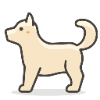
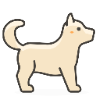
dog change
a

diff --git a/mastermainwindow.cpp b/mastermainwindow.cpp
@@ -17,7 +17,7 @@ MasterMainWindow::MasterMainWindow(QWidget *parent)
     animation();
     flipTimer = new QTimer(this);
     connect(flipTimer, &QTimer::timeout, this, &MasterMainWindow::flipDog);
-    flipTimer->start(3500);  // 设置为50毫秒触发一次
+    flipTimer->start(2500);
 }
 
 MasterMainWindow::~MasterMainWindow()
@@ -135,7 +135,9 @@ void MasterMainWindow::animation(){
     world.createWall("left",b2Vec2(-8.0f, 1.0f),b2Vec2(0.5f, 8.0),0.0f,0.0f);
     world.createWall("bot",b2Vec2(8.0f, 1.0f),b2Vec2(0.5f, 8.0),0.0f,0.0f);
     world.createWall("right",b2Vec2(0.0f, 1.0f),b2Vec2(8.0f, 0.5f),0.0f,0.0f);
-    world.createBody("dog1",b2Vec2(-7.5f,2.0f),b2Vec2(0.0f, 1.0f),b2Vec2(2.0f, -0.0f),1.0f,1.0f,0.0f,1.0f,true);
+    world.createBody("dog1",b2Vec2(-7.5f,2.0f),b2Vec2(0.0f, 0.0f),b2Vec2(1.5f, -0.0f),1.0f,1.0f,0.0f,1.0f,true);
+    world.createBody("dog2",b2Vec2(+7.5f,2.0f),b2Vec2(0.0f, 0.0f),b2Vec2(-1.5f, -0.0f),1.0f,1.0f,0.0f,1.0f,true);
+
 
 }
 void MasterMainWindow::paintEvent(QPaintEvent *event) {
@@ -145,9 +147,9 @@ void MasterMainWindow::paintEvent(QPaintEvent *event) {
         QPixmap pix(":/importBG.png");
         painter.fillRect(event->rect(), pix);
         painter.setRenderHint(QPainter::Antialiasing);
-        const float scaleFactor = 50;  // 50 pixels per meter
-        const float offsetX = 1050/2;  // Centering in width
-        const float offsetY = 800;  // Aligning from the bottom
+        const float scaleFactor = 50;
+        const float offsetX = 1050/2;
+        const float offsetY = 800;
         QPen wallPen(Qt::white);
         wallPen.setWidth(2);
         painter.setPen(wallPen);
@@ -158,10 +160,19 @@ void MasterMainWindow::paintEvent(QPaintEvent *event) {
                 if (name) {
                     float x = body->GetPosition().x * scaleFactor + offsetX;
                     float y = offsetY - body->GetPosition().y * scaleFactor;  // Flipping Y coordinate for graphical display
-                    if (dogFlipped) {
+                    if (*name=="dog1") {
+                        if(dogFlipped)
                         drawAnimation(painter, ":/dog1.png", x, y);
-                    } else {
-                        drawFlippedAnimation(painter,":/dog1.png", x, y);
+                        else {
+                            drawFlippedAnimation(painter,":/dog1.png", x, y);
+                    }
+                    }
+                    if (*name=="dog2") {
+                        if(dogFlipped)
+                            drawAnimation(painter, ":/dog12.png", x, y);
+                        else {
+                            drawFlippedAnimation(painter,":/dog12.png", x, y);
+                        }
                     }
                 }
             }
